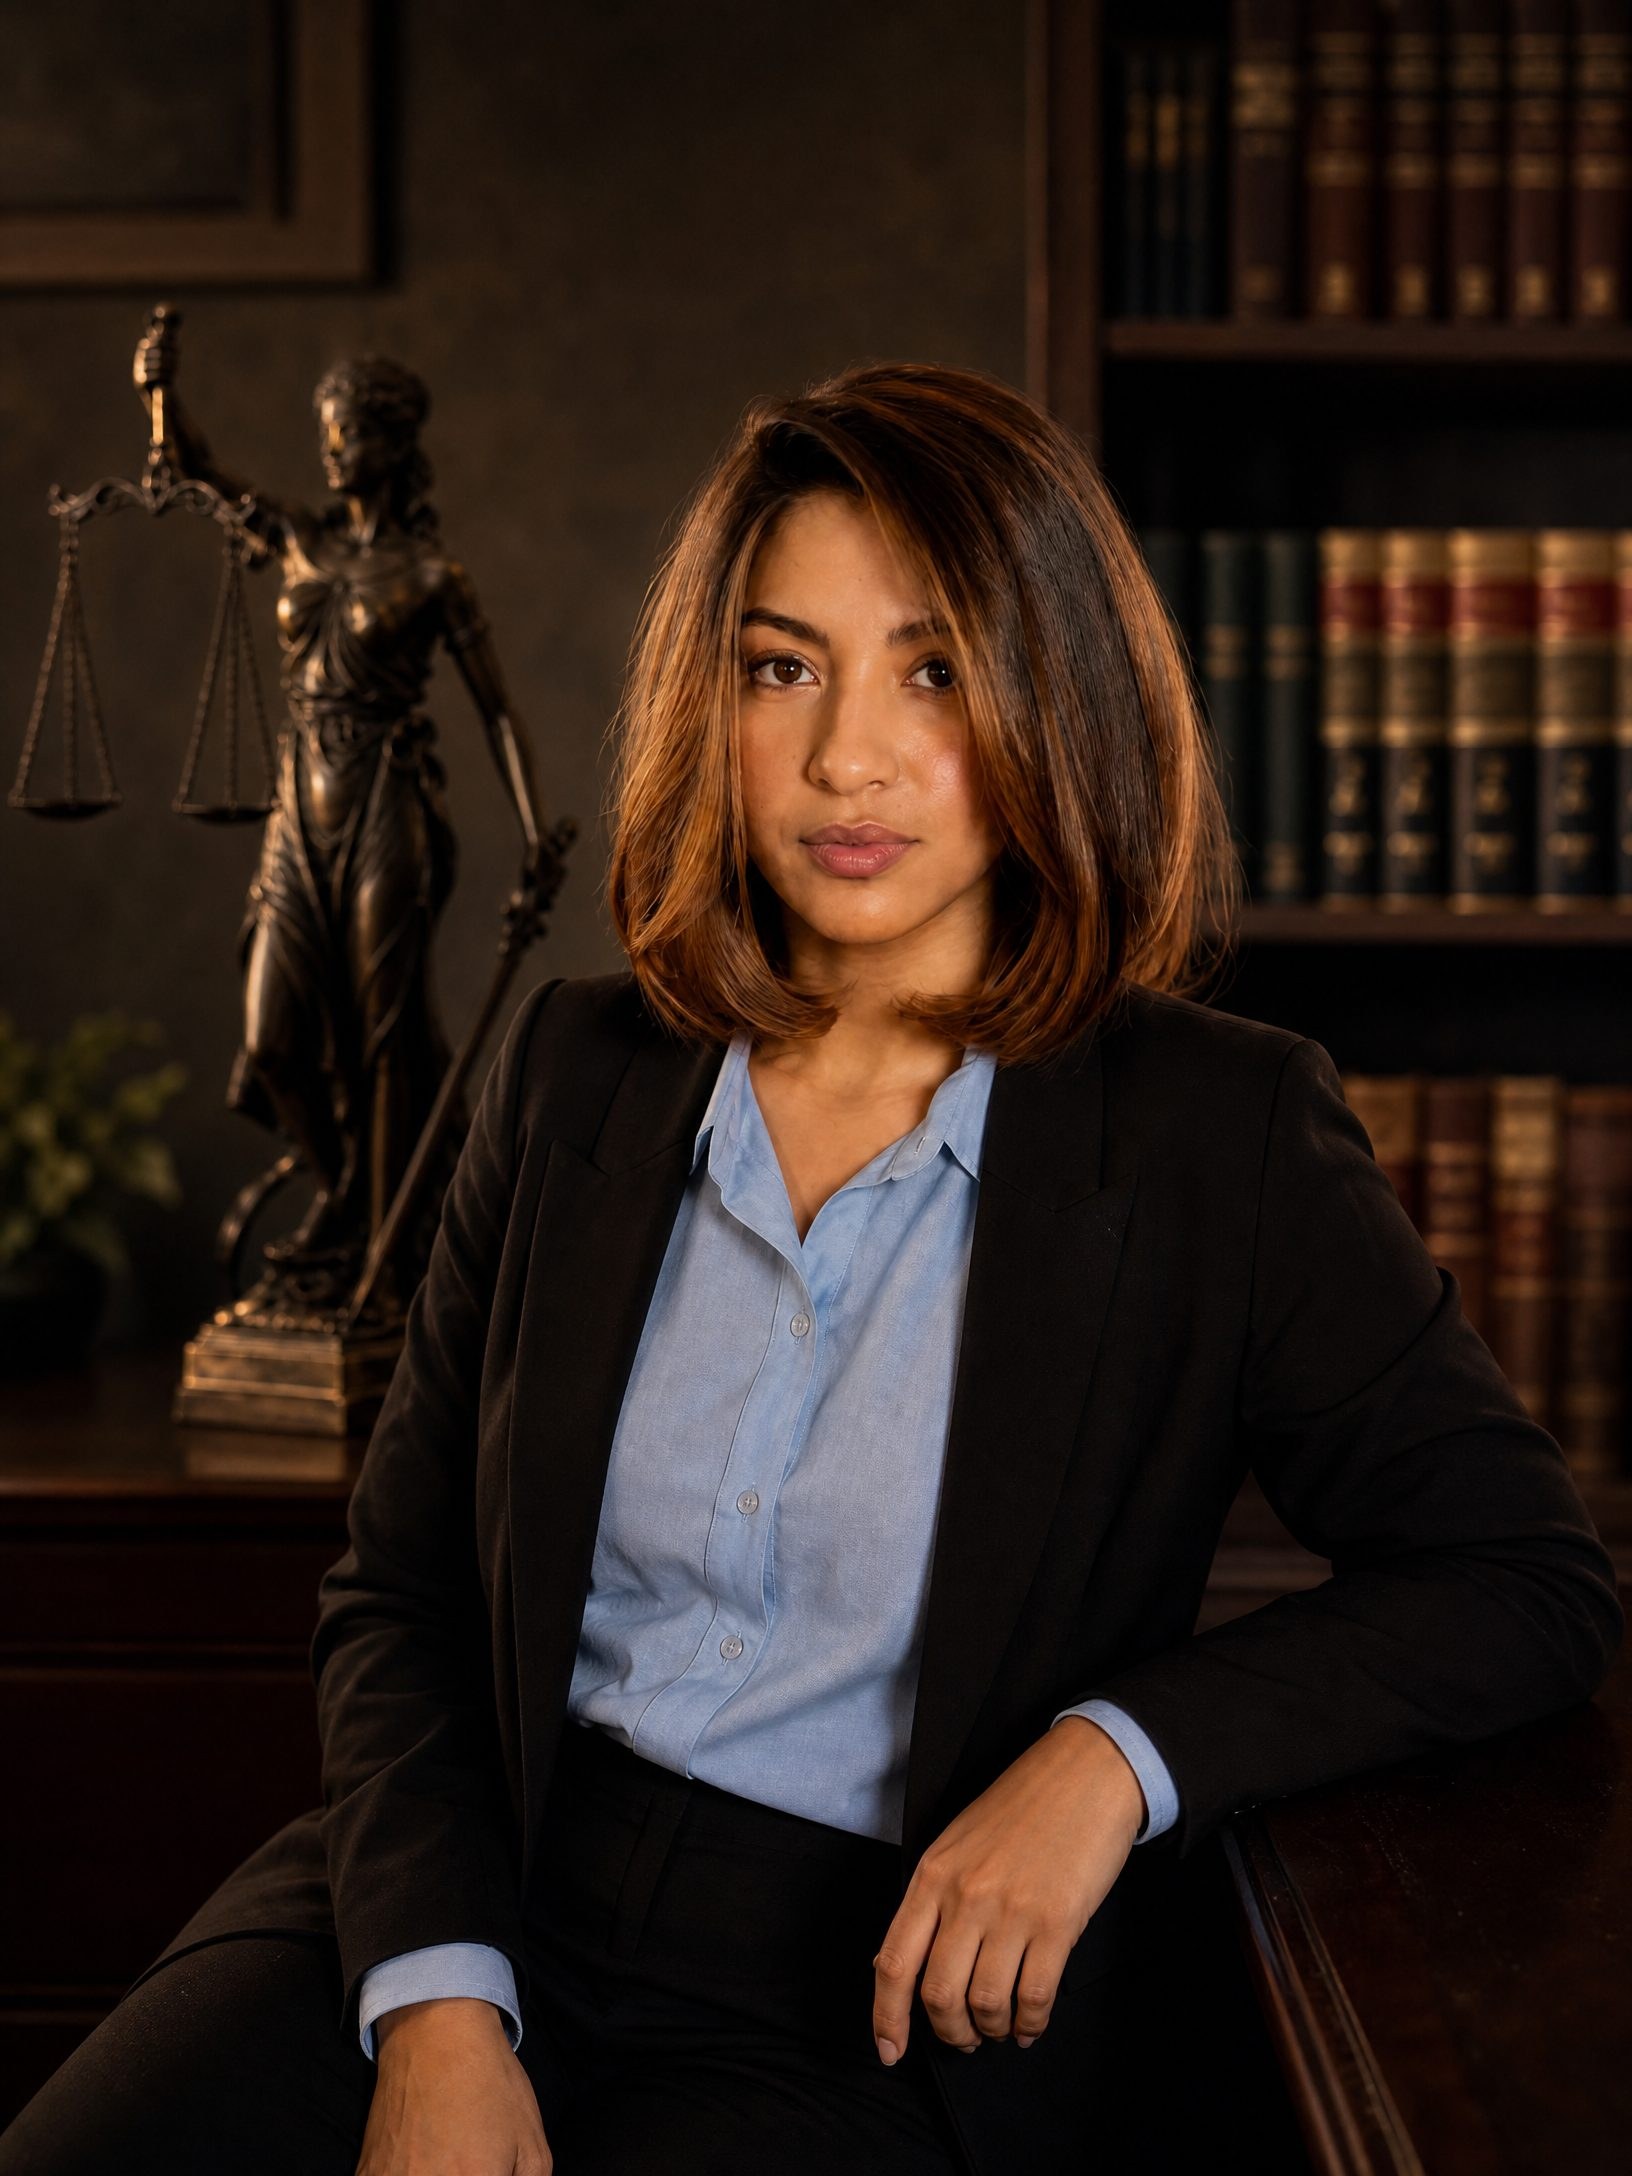
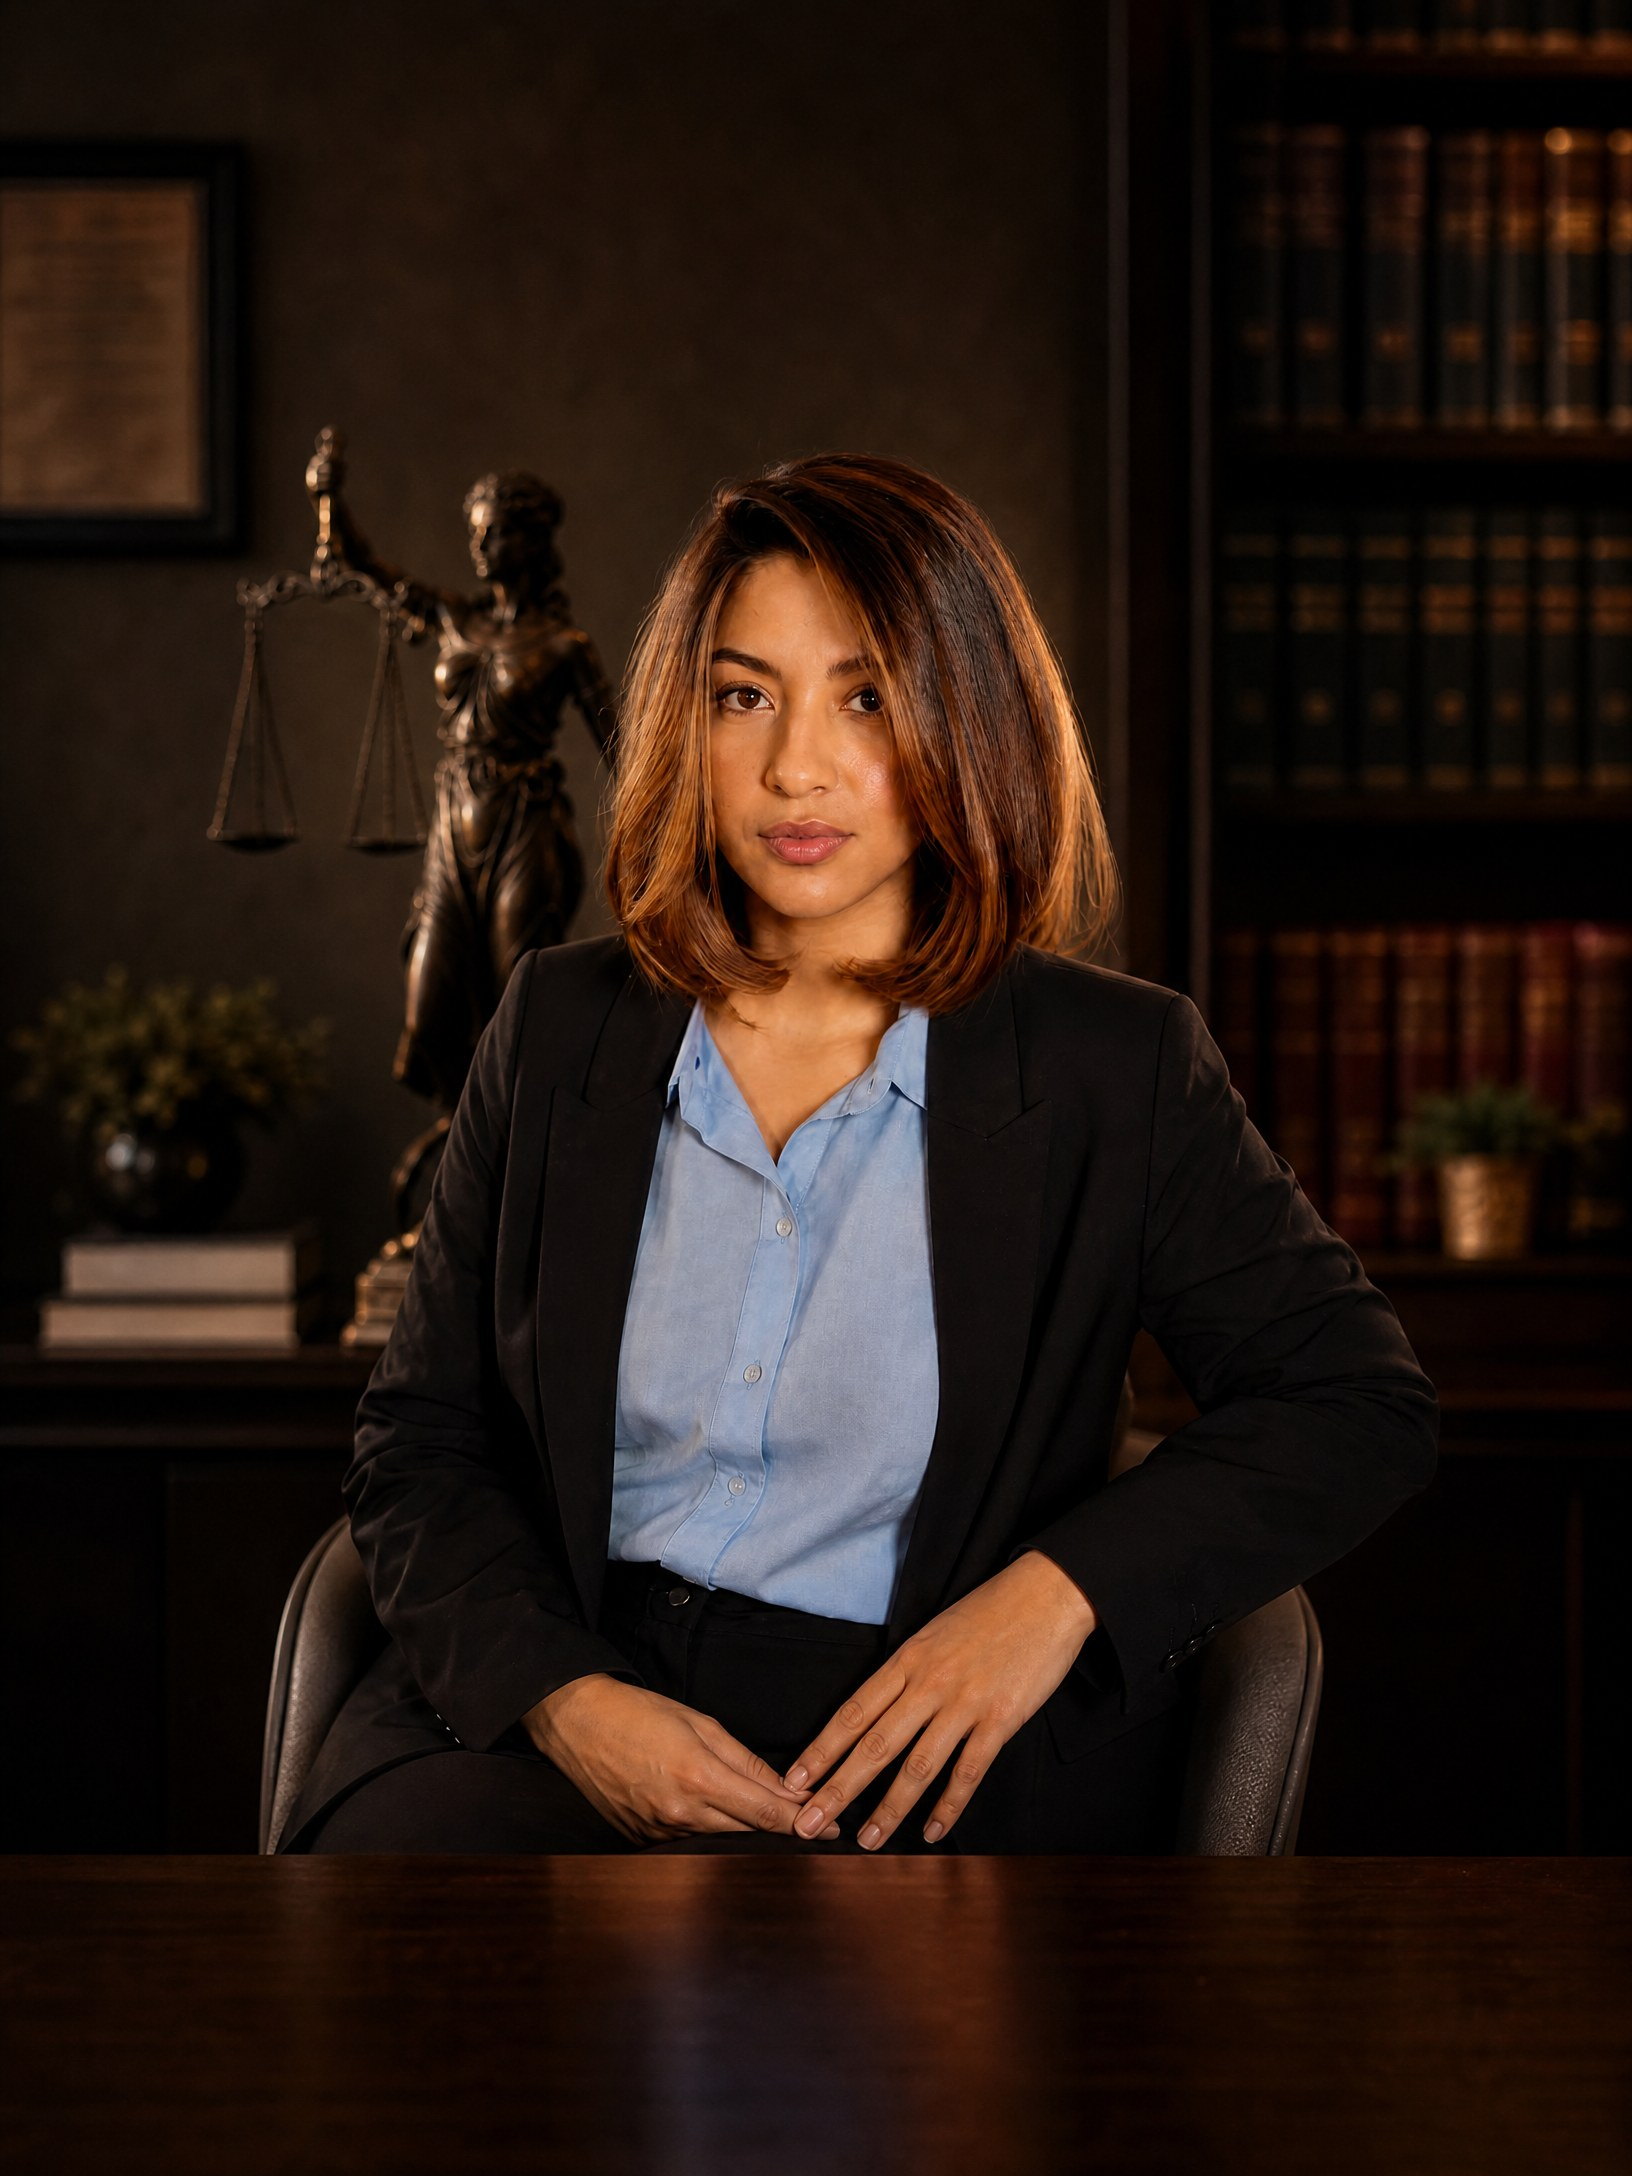
feat: imagens HD refazidas, capa desktop perfeita, CSS corrigido
- Hero desktop: pessoa à esquerda, espaço escuro à direita para texto
- Hero mobile: corpo inteiro, espaço acima da cabeça para texto
- Sobre desktop/mobile: alta resolução, enquadramento perfeito
- Capa desktop: background-position left, padding 100px, texto alinhado à direita
- Overlay gradiente corrigido (person on left = gradient from right)
- Todas imagens progressivo JPEG com alta qualidade (85-88%)
- Total imagens: 1.4MB (vs 16MB antes)

diff --git a/index.html b/index.html
@@ -132,7 +132,7 @@
     transform: translateZ(0);
     position:absolute;inset:0;
     background-image: url('hero-desktop.jpg');
-    background-size:cover;background-position:right 85% center;
+    background-size:cover;background-position:left center;
   }
   @media (max-width: 768px) {
     .hero-bg {
@@ -141,6 +141,7 @@
     }
     .hero-inner {
       padding: 90px 20px 50px;
+      align-items: flex-end;
     }
     .hero h1 {
       font-size: clamp(24px, 6vw, 38px);
@@ -168,9 +169,9 @@
 
   .hero-bg::after{
     content:"";position:absolute;inset:0;
-    background:linear-gradient(105deg, rgba(15,11,6,0.94) 0%, rgba(15,11,6,0.78) 25%, rgba(15,11,6,0.35) 45%, rgba(15,11,6,0.08) 65%, rgba(15,11,6,0) 100%);
+    background:linear-gradient(270deg, rgba(15,11,6,0.94) 0%, rgba(15,11,6,0.85) 15%, rgba(15,11,6,0.6) 30%, rgba(15,11,6,0.25) 50%, rgba(15,11,6,0) 70%);
   }
-  .hero-inner{position:relative;z-index:2;width:100%;padding:120px 32px 70px;max-width:1240px;margin:0 auto;}
+  .hero-inner{position:relative;z-index:2;width:100%;padding:100px 32px 70px;max-width:1240px;margin:0 auto;display:flex;flex-direction:column;align-items:flex-start;}
   .hero-inner .eyebrow{color:var(--bronze-light);}
   .hero h1{
     color:var(--cream);font-size:clamp(32px,4.5vw,62px);line-height:1.1;
@@ -328,7 +329,7 @@
   }
   .cta-img{position:relative;overflow:hidden;min-height:340px;}
   .cta-img img{
-    width:100%;height:100%;object-fit:cover;position:absolute;inset:0;
+    width:100%;height:100%;object-fit:cover;object-position:center 25%;position:absolute;inset:0;
   }
 
   /* ===== FOOTER ===== */
@@ -395,7 +396,7 @@
     .wrap{padding:0 22px;}
     .nav{padding:14px 20px;}
     .brand img{height:32px;}
-    .hero-inner{padding:110px 22px 50px;}
+    .hero-inner{padding:90px 22px 50px;align-items:flex-end;}
     .hero h1{font-size:clamp(28px,5vw,48px);max-width:100%;}
     .hero p{max-width:100%;}
     .btn-outline{margin-left:0;margin-top:14px;display:block;text-align:center;}
@@ -405,7 +406,7 @@
     .area-card:nth-child(2n){padding-left:0;}
     .about-copy{padding:56px 24px;}
     .about-img{min-height:340px;}
-    .about-img img{object-position:center 25%;}
+    .about-img img{object-position:center 30%;}
     .dif{padding:80px 0;}
     .dif-grid{grid-template-columns:1fr;row-gap:44px;}
     .testi{padding:90px 0;}
